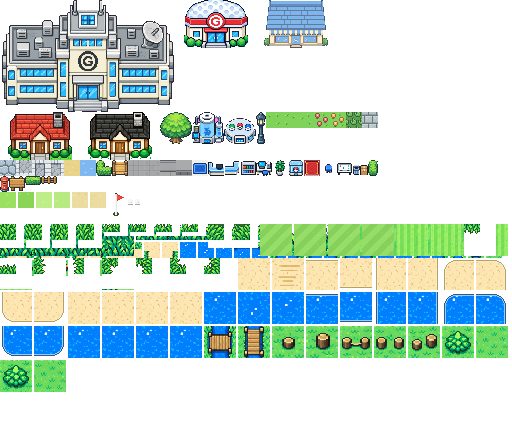
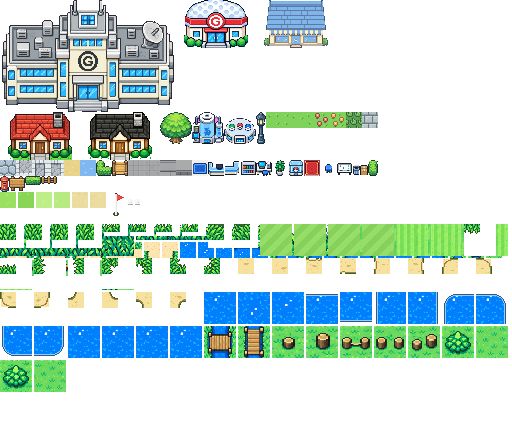
バンカーをシートB（細縁）に差し替え、ラフ縁取りがバンカー/池に被らないよう修正
- tools/bunker-tiles.py: 14ピースを16×16に統一、隙間埋め、内角処理
- field.js drawRoughEdge: K/~/B タイルには縁取りを描かない

Claude-Session: https://claude.ai/code/session_018VDSYCPciSbMvR8kKaJDnr

Changed region(s): [[0.4375, 0.5771, 1.0, 0.6986], [0.0, 0.6682, 0.4062, 0.7593]]

diff --git a/js/scenes/field.js b/js/scenes/field.js
@@ -450,7 +450,7 @@ class FieldScene {
   }
   // ラフの縁：ラフでないマス（フェアウェイ・道・砂・水・木の根元…すべて）の、ラフに接している辺に葉先を重ねる。どの地形に接しても同じ輪郭になる
   drawRoughEdge(ctx, tx, ty, px, py) {
-    if (!(this.map.golf && Tiles.has('fr_u')) || this.tileAt(tx, ty) === 'T') return;
+    if (!(this.map.golf && Tiles.has('fr_u')) || 'TK~B'.includes(this.tileAt(tx, ty))) return;   // 砂・水の上には葉先を出さない（縁取りを隠さない）
     const T = CONFIG.TILE, isR = (dx, dy) => this.tileAt(tx + dx, ty + dy) === 'T';
     if (isR(0, -1)) ctx.drawImage(Tiles.get('fr_u'), px, py, T, T);
     if (isR(0, 1)) ctx.drawImage(Tiles.get('fr_d'), px, py, T, T);

diff --git a/tools/bunker-tiles.py b/tools/bunker-tiles.py
@@ -1,0 +1,86 @@
+#!/usr/bin/env python3
+"""バンカー13枚セット（ChatGPT製、マゼンタ背景、透明地）を16ドットで取り込み bk_* を置き換える。
+   使い方: python3 tools/bunker-tiles.py assets/src/bunker_sheet_B.png   （course-finish.py の後に）
+   並び：中央A 中央B 上 下 左 / 右 左上 右上 左下 右下 / 内角 左上 右上 左下 右下（行は y でまとめ、ラベル箱は除外）"""
+import json, sys
+from PIL import Image
+import numpy as np
+from scipy import ndimage
+src = sys.argv[1]
+j = json.load(open('assets/tiles.json')); atlas = Image.open('assets/tiles.png').convert('RGBA')
+A = np.asarray(Image.open(src).convert('RGB')).astype(int)
+mag = (A[:, :, 0] > 180) & (A[:, :, 2] > 180) & ((A[:, :, 0] + A[:, :, 2]) / 2 - A[:, :, 1] > 80)
+lab, n = ndimage.label(~mag); comps = []
+for i, sl in enumerate(ndimage.find_objects(lab)):
+    h = sl[0].stop - sl[0].start; w = sl[1].stop - sl[1].start
+    if w < 60 or h < 60: continue
+    m = (lab[sl] == i + 1)
+    if np.median(A[sl][m], axis=0).sum() < 250: continue   # ラベル
+    comps.append((sl[0].start, sl[1].start, w, h))
+comps.sort(); rows = []
+for c in comps:
+    if rows and abs(rows[-1][0][0] - c[0]) < 120: rows[-1].append(c)
+    else: rows.append([c])
+rows = [sorted(r, key=lambda c: c[1]) for r in rows]; print([len(r) for r in rows])
+flat = [c for r in rows for c in r]
+names = ['bk_c0', 'bk_c1', 'bk_u', 'bk_d', 'bk_l', 'bk_r', 'bk_ul', 'bk_ur', 'bk_dl', 'bk_dr', 'bk_iul', 'bk_iur', 'bk_idl', 'bk_idr']
+TILE = max(c[2] for c in flat); DOT = TILE / 16   # 正方形タイルの一辺から1ドットのpx
+# 各部品の「タイル内での位置」：中央・内角は全体、辺/角は欠けている側に寄せる
+ANCH = {'bk_u': ('c', 't'), 'bk_d': ('c', 'b'), 'bk_l': ('l', 'c'), 'bk_r': ('r', 'c'), 'bk_ul': ('l', 't'), 'bk_ur': ('r', 't'), 'bk_dl': ('l', 'b'), 'bk_dr': ('r', 'b')}
+def cut(y, x, w, h, nm):
+    ax, ay = ANCH.get(nm, ('c', 'c'))
+    # 部品の bbox を 16 ドット枠に当てはめる：欠けた側に寄せる（例：上の縁は上寄せ）
+    tw, th = 16, 16   # 部品の大きさに関係なく 16 ドットに引き伸ばす（隙間を作らない）
+    reg = A[y:y + h, x:x + w]; m = ~mag[y:y + h, x:x + w]
+    out = np.zeros((16, 16, 4), dtype=np.uint8); bx, by = w / tw, h / th; r = max(1, int(min(bx, by) * 0.3))
+    ox = 0 if ax == 'l' else (16 - tw if ax == 'r' else (16 - tw) // 2); oy = 0 if ay == 't' else (16 - th if ay == 'b' else (16 - th) // 2)
+    for jj in range(th):
+        cy = int((jj + 0.5) * by)
+        for ii in range(tw):
+            cx = int((ii + 0.5) * bx)
+            win = reg[max(0, cy - r):cy + r + 1, max(0, cx - r):cx + r + 1].reshape(-1, 3); mm = m[max(0, cy - r):cy + r + 1, max(0, cx - r):cx + r + 1].reshape(-1)
+            if mm.mean() < 0.5: continue
+            out[oy + jj, ox + ii] = (*np.median(win[mm], axis=0).astype(int), 255)
+    arr = out.astype(int); pink = (arr[:, :, 3] > 0) & ((arr[:, :, 0] + arr[:, :, 2]) / 2 - arr[:, :, 1] > 50) & (arr[:, :, 0] > 120); arr[pink] = 0
+    return Image.fromarray(arr.astype(np.uint8), 'RGBA')
+tiles = {}
+for c, nm in zip(flat, names):
+    y, x, w, h = c
+    if nm in ('bk_c0', 'bk_c1'): ins = int(w * 0.04); c = (y + ins, x + ins, w - 2 * ins, h - 2 * ins)
+    tiles[nm] = cut(*c, nm)
+# 隙間埋め：縁・角は「砂が占める箱」の内側、内角は角の透明部分以外、中央は全部を砂で埋める
+BOX = {'bk_u': ('t',), 'bk_d': ('b',), 'bk_l': ('l',), 'bk_r': ('r',), 'bk_ul': ('t', 'l'), 'bk_ur': ('t', 'r'), 'bk_dl': ('b', 'l'), 'bk_dr': ('b', 'r')}
+INNER = {'bk_iul': (0, 0), 'bk_iur': (0, 15), 'bk_idl': (15, 0), 'bk_idr': (15, 15)}
+sand = np.asarray(tiles['bk_c0']).copy()
+for nm, im in tiles.items():
+    a = np.asarray(im).copy()
+    green = (a[:, :, 3] > 0) & (a[:, :, 1].astype(int) > a[:, :, 0].astype(int) + 20)
+    isSand = (a[:, :, 3] > 0) & ~green
+    hole = (a[:, :, 3] == 0) | green
+    if nm in BOX:
+        ys, xs = np.where(isSand); y0, y1, x0, x1 = 0, 16, 0, 16
+        for side in BOX[nm]:
+            if side == 't': y0 = ys.min()
+            if side == 'b': y1 = ys.max() + 1
+            if side == 'l': x0 = xs.min()
+            if side == 'r': x1 = xs.max() + 1
+        box = np.zeros((16, 16), bool); box[y0:y1, x0:x1] = True
+        # 箱の中でも、砂の外周（丸い角の外側）は透明のまま：閉じた側の境界に連結している穴は外側
+        lab2, _ = ndimage.label(hole); outside = np.zeros_like(hole)
+        for side in BOX[nm]:
+            seeds = {'t': lab2[0, :], 'b': lab2[15, :], 'l': lab2[:, 0], 'r': lab2[:, 15]}[side]
+            for k in set(seeds.tolist()):
+                if k: outside |= (lab2 == k)
+        fill = hole & box & ~(outside & ~box)   # 箱の外は透明、箱の中の穴は砂（閉じた側に連結していても箱の中なら砂＝丸い角の外側は箱の外にある）
+        # 丸い角の外側は閉じた2辺に接する角領域：箱の外にあるので自動的に透明
+    elif nm in INNER:
+        lab2, _ = ndimage.label(hole); k = lab2[INNER[nm]]; fill = hole & ~(lab2 == k) if k else hole
+    else:
+        fill = hole
+    a[fill] = sand[fill]; tiles[nm] = Image.fromarray(a, 'RGBA')
+for nm, im in tiles.items():
+    x, y, w, h = j[nm]; atlas.paste(Image.new('RGBA', (w, h), (0, 0, 0, 0)), (x, y)); atlas.paste(im, (x, y)); j[nm] = [x, y, 16, 16]
+atlas.save('assets/tiles.png'); json.dump(j, open('assets/tiles.json', 'w'))
+pv = Image.new('RGBA', (18 * 7, 18 * 2), (150, 222, 104, 255))
+for i, nm in enumerate(names): pv.alpha_composite(tiles[nm], ((i % 7) * 18, (i // 7) * 18))
+pv.resize((pv.width * 6, pv.height * 6), Image.NEAREST).save('/tmp/claude-0/bunker_preview.png'); print('ok')
